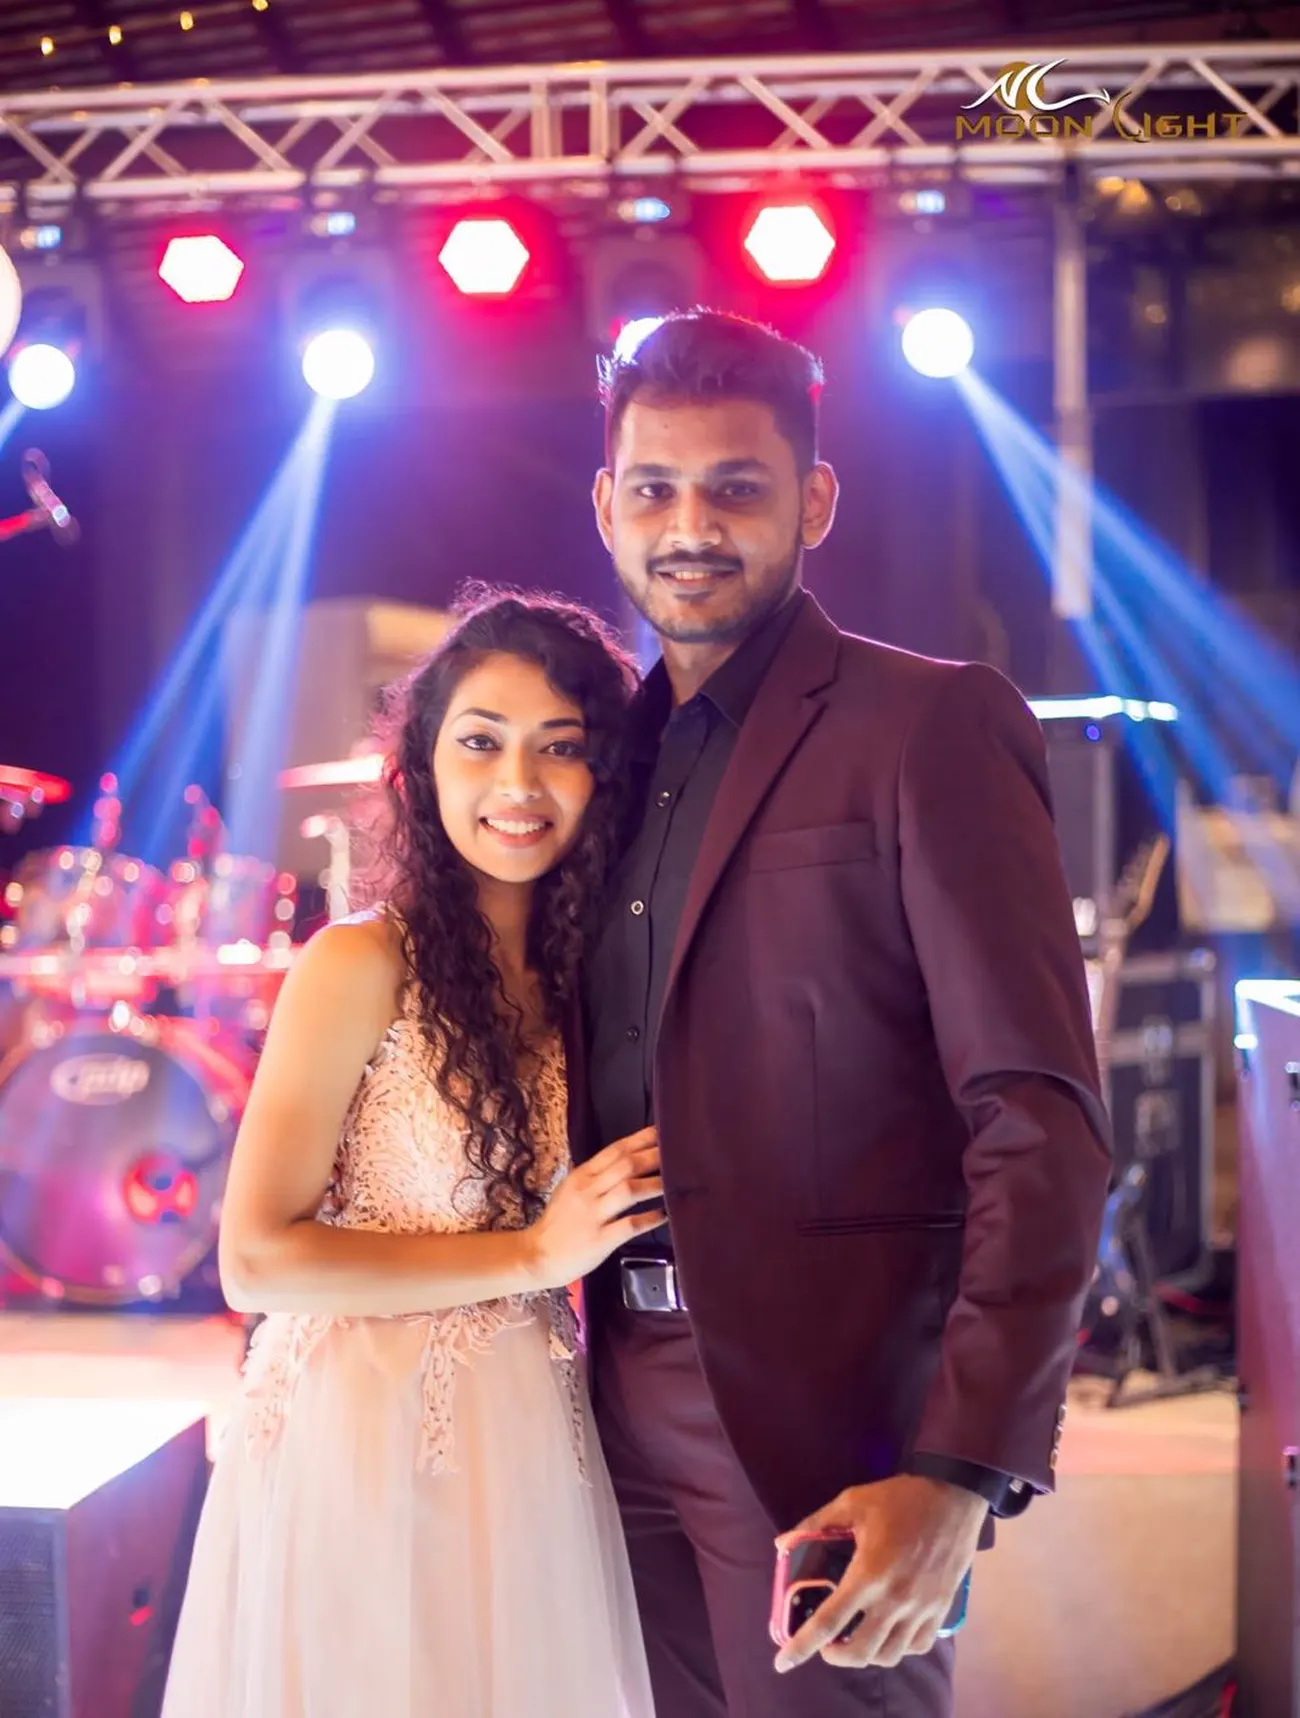
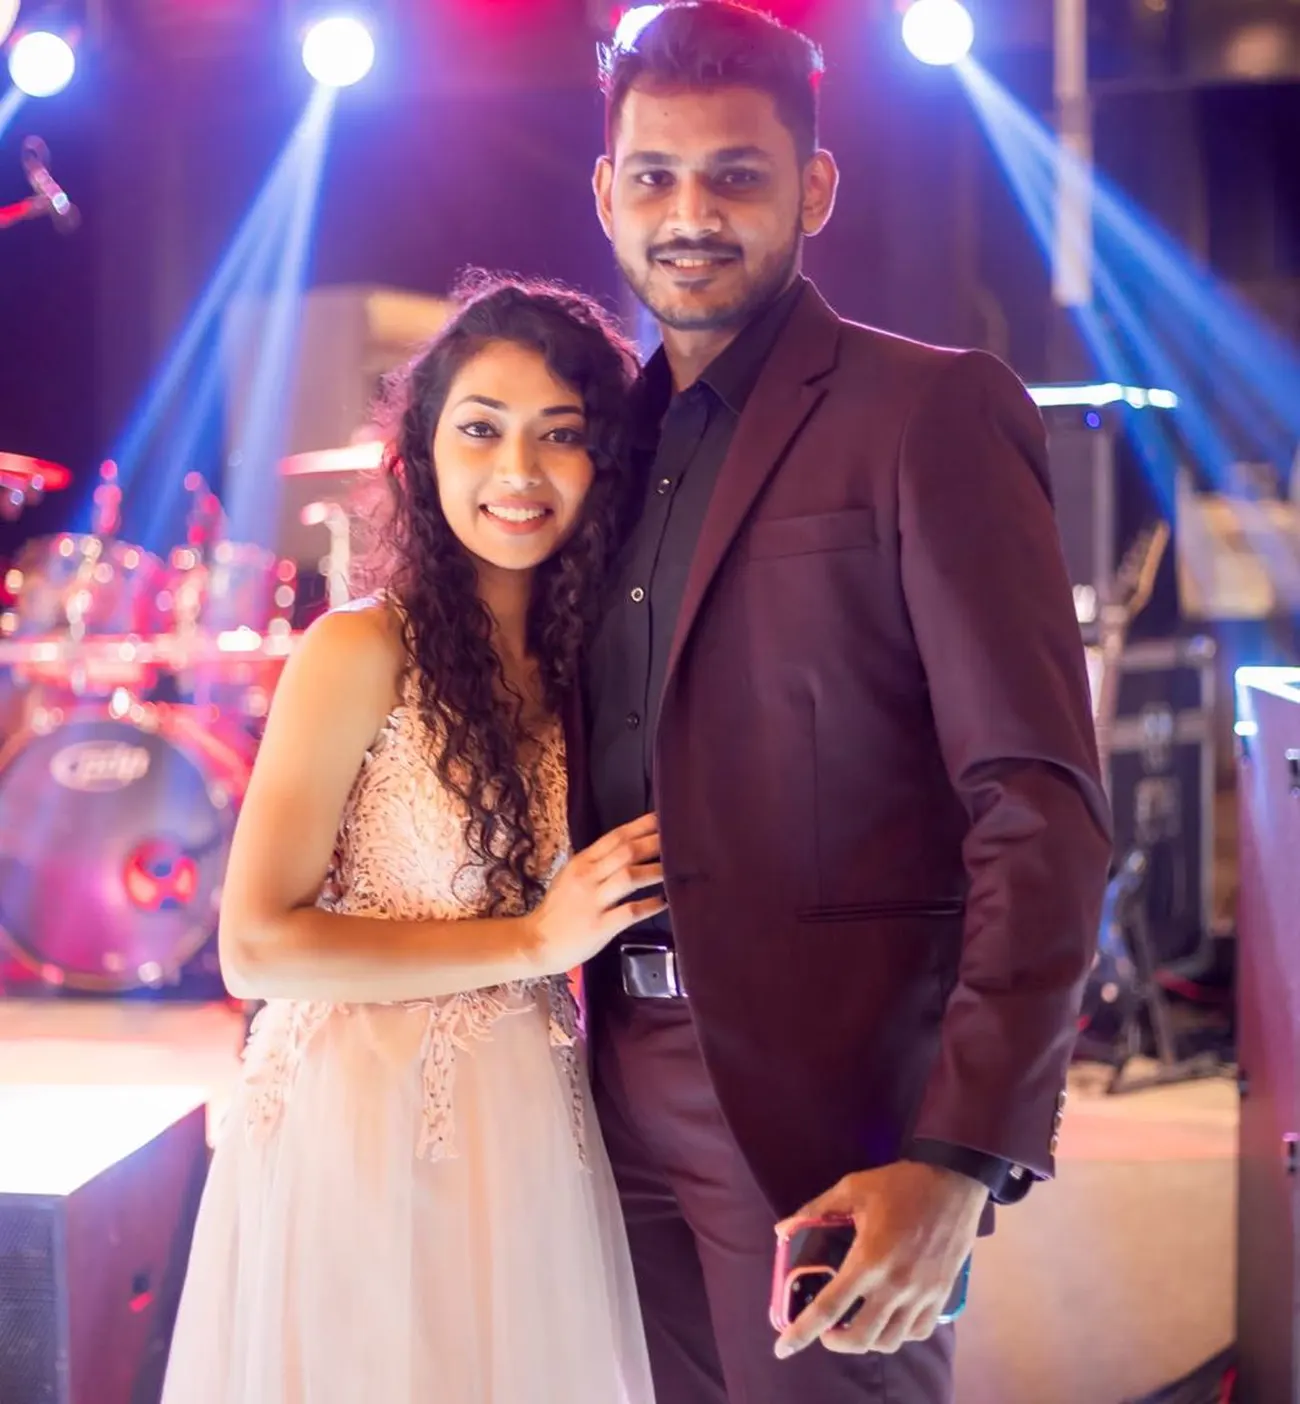
Smaller story photographs, a real dusk ramp, a livelier envelope
Story photographs down from 20rem to 15rem (14rem on wide screens), and
2025 now carries a pair — the day itself beside an engagement portrait,
since 16 January 2025 is the engagement.

The dusk band was the colour problem. Mixing the cream token with the gold
one put an olive-brown through the middle of it, and the party section's
wash was lighter than the end of the ramp, so it banded twice. It is now an
explicit sunset — sand, dusty rose, ember, wine, night — desaturated to sit
in the palette, a third shorter, and the party section fades from the same
black the ramp ends on.

Also cropped 2024.jpeg at both ends: the venue's MOON LIGHT banner runs
across the top of that frame and the photographer's mark across the bottom.
The tighter crop is a better picture anyway.

The envelope was a still image with a button. It now has the same gilt frame
and lily corners as the hero, a breath of light behind it, a slow float, a
gloss travelling across the wax, petals drifting past, and on pointer devices
it leans toward the cursor.

diff --git a/site/assets/css/style.css b/site/assets/css/style.css
@@ -120,6 +120,7 @@ main > footer{ padding-block: var(--pad-block); }
   position:fixed; inset:0; z-index:100;
   display:grid; place-items:center;
   overflow:hidden;
+  perspective:1200px;
   background:
     radial-gradient(90% 65% at 50% 46%, color-mix(in srgb, var(--wine) 34%, var(--plum)) 0%, transparent 68%),
     linear-gradient(170deg, var(--plum) 0%, var(--night) 68%);
@@ -127,19 +128,44 @@ main > footer{ padding-block: var(--pad-block); }
 }
 .envelope-stage.is-gone{ opacity:0; visibility:hidden; pointer-events:none; }
 
+/* a slow breath of light behind the envelope */
+.envelope-stage::after{
+  content:""; position:absolute; inset:0; z-index:0;
+  background:radial-gradient(38% 30% at 50% 52%,
+    color-mix(in srgb, var(--gilt) 18%, transparent), transparent 70%);
+  animation: env-glow 6s ease-in-out infinite alternate;
+  pointer-events:none;
+}
+@keyframes env-glow{ from{ opacity:.35; } to{ opacity:1; } }
+
+.envelope-frame{ z-index:2; }
+
 .envelope-scene{
+  position:relative; z-index:3;
   width:100%; max-width:100%;
   display:grid; justify-items:center; gap:2.5rem;
   padding: var(--gutter);
   perspective:1400px;
 }
 
+/* the envelope floats, and leans toward the pointer */
+.envelope-tilt{
+  transform-style:preserve-3d;
+  animation: env-float 7s ease-in-out infinite alternate;
+}
+@keyframes env-float{
+  from{ transform:translateY(-.4rem) rotate(-.5deg); }
+  to  { transform:translateY(.4rem)  rotate(.5deg); }
+}
+.is-opening .envelope-tilt{ animation:none; }
+
 .envelope{
   position:relative;
   width:min(82vw, 23rem);
   aspect-ratio: 1 / .64;
   transform-style:preserve-3d;
-  transition:transform 1s var(--ease);
+  transform: rotateX(var(--tilt-x, 0deg)) rotateY(var(--tilt-y, 0deg));
+  transition: transform .45s cubic-bezier(.16,1,.3,1);
 }
 
 .env-body,
@@ -246,7 +272,22 @@ main > footer{ padding-block: var(--pad-block); }
   transition: transform .5s var(--ease), opacity .5s var(--ease);
   animation: seal-breathe 3.6s ease-in-out infinite;
 }
+.env-seal::after{
+  content:""; position:absolute; inset:0;
+  border-radius:50%;
+  background:linear-gradient(115deg,
+    transparent 34%,
+    color-mix(in srgb, var(--cream) 34%, transparent) 47%,
+    transparent 60%);
+  animation: seal-gloss 4.5s ease-in-out infinite;
+  pointer-events:none;
+}
+@keyframes seal-gloss{
+  0%, 62%{ transform:translateX(-115%); }
+  86%, 100%{ transform:translateX(115%); }
+}
 .env-seal:hover{ transform:translate(-50%,-50%) scale(1.05); }
+.is-opening .env-seal::after{ animation:none; }
 .is-opening .env-seal{
   transform:translate(-50%,-30%) rotate(-22deg) scale(.85);
   opacity:0; animation:none;
@@ -688,8 +729,14 @@ main > footer{ padding-block: var(--pad-block); }
 .beat--mark  .beat__year{ color: var(--wine); }
 
 .beat__pic{ margin:0 0 1rem; }
+.beat__pic--pair{
+  display:grid; grid-template-columns:1fr 1fr; gap:.5rem;
+  max-width:15rem;
+}
+.beat__pic--pair img{ max-width:none; }
+.beat__pic--pair img:first-child{ margin-top:1rem; }
 .beat__pic img{
-  width:100%; max-width:20rem;
+  width:100%; max-width:15rem;
   aspect-ratio:4/5; object-fit:cover;
   border-radius:2px;
   box-shadow:0 .8rem 2rem -1rem color-mix(in srgb, var(--ink) 55%, transparent);
@@ -756,13 +803,13 @@ main > footer{ padding-block: var(--pad-block); }
      the row stops being two thirds empty */
   .beat{
     display:grid;
-    grid-template-columns:6.5rem 17rem 1fr;
+    grid-template-columns:6.5rem 14rem 1fr;
     grid-template-areas:"year pic body";
     column-gap:clamp(1.5rem,3vw,2.5rem);
   }
   .beat__year{ grid-area:year; text-align:right; margin:.35rem 0 0; }
   .beat__pic { grid-area:pic; margin-bottom:0; }
-  .beat__pic img{ max-width:17rem; }
+  .beat__pic img{ max-width:14rem; }
   .beat__body{ grid-area:body; align-self:start; padding-top:.3rem; }
 
   .beat--quiet{ grid-template-areas:"year body body"; }
@@ -815,15 +862,19 @@ main > footer{ padding-block: var(--pad-block); }
 
 
 /* nightfall — the page turns to evening between the two days */
+/* dusk — cream to night through a real sunset ramp. Mixing cream with the
+   gold token put an olive-brown in the middle, which is where the mud was. */
 .nightfall{
-  height:clamp(9rem,28vh,16rem);
+  height:clamp(6rem,16vh,9rem);
   background:linear-gradient(180deg,
-    color-mix(in srgb, var(--cream) 32%, var(--lily)) 0%,
-    var(--gilt) 30%,
-    color-mix(in srgb, var(--wine) 70%, var(--gilt)) 62%,
-    var(--plum) 84%,
-    var(--night) 100%);
+    #F9F3E5  0%,
+    #EBD6BD 20%,
+    #CFA391 42%,
+    #9E5A50 62%,
+    #5D2029 82%,
+    #190A0E 100%);
 }
+
 .day--church{
   background: color-mix(in srgb, var(--cream) 32%, var(--lily));
   padding-bottom: clamp(2.5rem,7vh,4rem) !important;
@@ -1103,6 +1154,8 @@ main > footer{ padding-block: var(--pad-block); }
   }
   .reveal{ opacity:1; transform:none; }
   .hero__video{ animation:none; transform:none; }
+  .envelope-tilt{ animation:none; }
+  .envelope-stage::after{ animation:none; opacity:.7; }
   .invite__guest{ clip-path:none; }
   .invite__rule line{ stroke-dashoffset:0; }
 }
@@ -1182,13 +1235,14 @@ main > footer::after{
 .day--church::before{
   background:
     radial-gradient(60% 45% at 12% 0%,  color-mix(in srgb, var(--lily) 90%, transparent), transparent 68%),
-    radial-gradient(55% 50% at 100% 92%, color-mix(in srgb, var(--gilt) 26%, transparent), transparent 70%);
+    radial-gradient(50% 42% at 100% 88%, color-mix(in srgb, var(--gilt) 14%, transparent), transparent 72%);
 }
 
 /* ── nightfall ── */
 
 .day--party::before{
   background:
+    linear-gradient(180deg, var(--night), transparent 14%),
     radial-gradient(62% 48% at 78% 8%,  color-mix(in srgb, var(--wine) 42%, transparent), transparent 72%),
     radial-gradient(70% 55% at 10% 96%, color-mix(in srgb, var(--plum) 70%, transparent), transparent 74%);
 }

diff --git a/site/index.html b/site/index.html
@@ -25,6 +25,14 @@
 
 <!-- ══════════ THE ENVELOPE ══════════ -->
 <div class="envelope-stage" id="envelopeStage">
+
+  <div class="hero__frame envelope-frame" aria-hidden="true">
+    <svg class="corner corner--tl" viewBox="0 0 64 64"><use href="#corner"/></svg>
+    <svg class="corner corner--tr" viewBox="0 0 64 64"><use href="#corner"/></svg>
+    <svg class="corner corner--br" viewBox="0 0 64 64"><use href="#corner"/></svg>
+    <svg class="corner corner--bl" viewBox="0 0 64 64"><use href="#corner"/></svg>
+  </div>
+
   <div class="envelope-scene">
 
     <div class="env-address">
@@ -32,6 +40,7 @@
       <span class="env-address__name" id="envelopeName">our dear friend</span>
     </div>
 
+    <div class="envelope-tilt" id="envelopeTilt">
     <div class="envelope" id="envelope">
       <div class="env-body"></div>
 
@@ -50,6 +59,7 @@
         <svg class="lily lily--seal" viewBox="0 0 64 96" aria-hidden="true"><use href="#lily"/></svg>
         <span class="env-seal__initials">P<i>·</i>N</span>
       </button>
+    </div>
     </div>
 
     <p class="envelope-hint" id="envelopeHint">Tap the seal to open</p>
@@ -286,12 +296,17 @@
 
       <li class="beat beat--mark reveal" data-year="2025">
         <p class="beat__year">2025</p>
-        <figure class="beat__pic">
+        <figure class="beat__pic beat__pic--pair">
           <img src="assets/img/story-2025-400.webp"
                srcset="assets/img/story-2025-400.webp 400w, assets/img/story-2025-700.webp 700w"
-               sizes="(min-width: 56rem) 20rem, 42vw"
+               sizes="(min-width: 56rem) 10rem, 22vw"
                width="400" height="500" loading="lazy" decoding="async"
-               alt="Pasindu and Nihara in 2025">
+               alt="Pasindu and Nihara on the day they were engaged">
+          <img src="assets/img/story-2025b-400.webp"
+               srcset="assets/img/story-2025b-400.webp 400w, assets/img/story-2025b-700.webp 700w"
+               sizes="(min-width: 56rem) 10rem, 22vw"
+               width="400" height="500" loading="lazy" decoding="async"
+               alt="Pasindu and Nihara, engaged — 16 January 2025">
         </figure>
         <div class="beat__body">
           <p class="beat__gap">16 January</p>

diff --git a/site/assets/js/main.js b/site/assets/js/main.js
@@ -127,6 +127,27 @@ function setupEnvelope(){
     return;
   }
 
+  // the envelope leans toward the pointer — small, and damped by CSS
+  if (!reducedMotion && matchMedia('(hover: hover)').matches){
+    const env = $('#envelope');
+    stage.addEventListener('pointermove', e => {
+      const x = (e.clientX / innerWidth  - 0.5) * 2;
+      const y = (e.clientY / innerHeight - 0.5) * 2;
+      env.style.setProperty('--tilt-y', (x * 7).toFixed(2) + 'deg');
+      env.style.setProperty('--tilt-x', (-y * 5).toFixed(2) + 'deg');
+    });
+    stage.addEventListener('pointerleave', () => {
+      env.style.setProperty('--tilt-y', '0deg');
+      env.style.setProperty('--tilt-x', '0deg');
+    });
+  }
+
+  // a few petals on the stage, so the wait is not a still picture
+  drift(stage, {
+    tints: PETAL.burst, alpha: 0.3, density: 70000, max: 14,
+    r: [4, 8], vy: [8, 18]
+  });
+
   $('#envSeal').addEventListener('click', openEnvelope);
   stage.addEventListener('click', e => {
     if (e.target.closest('.env-seal')) return;
